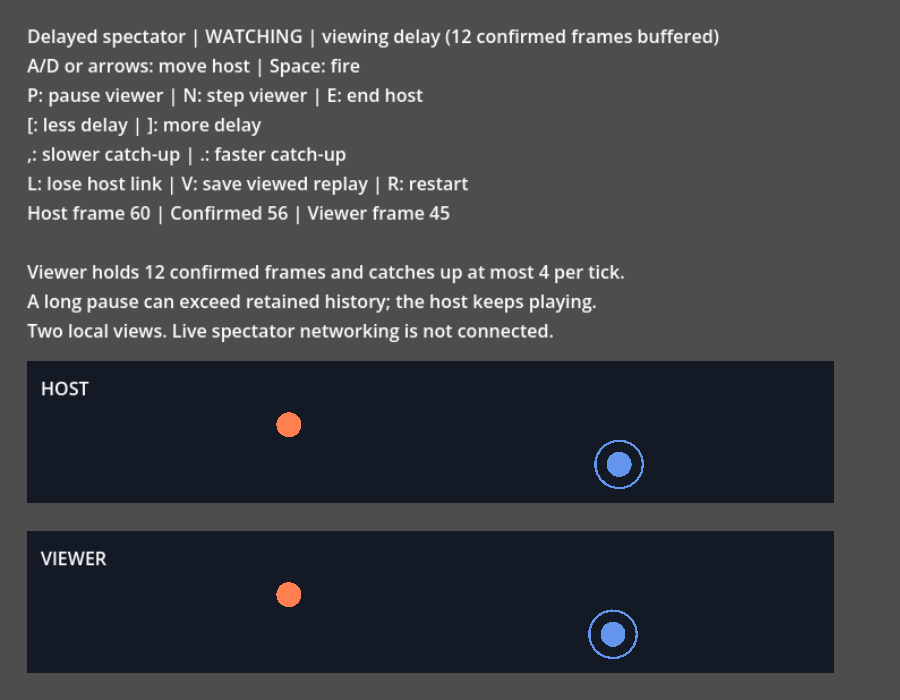
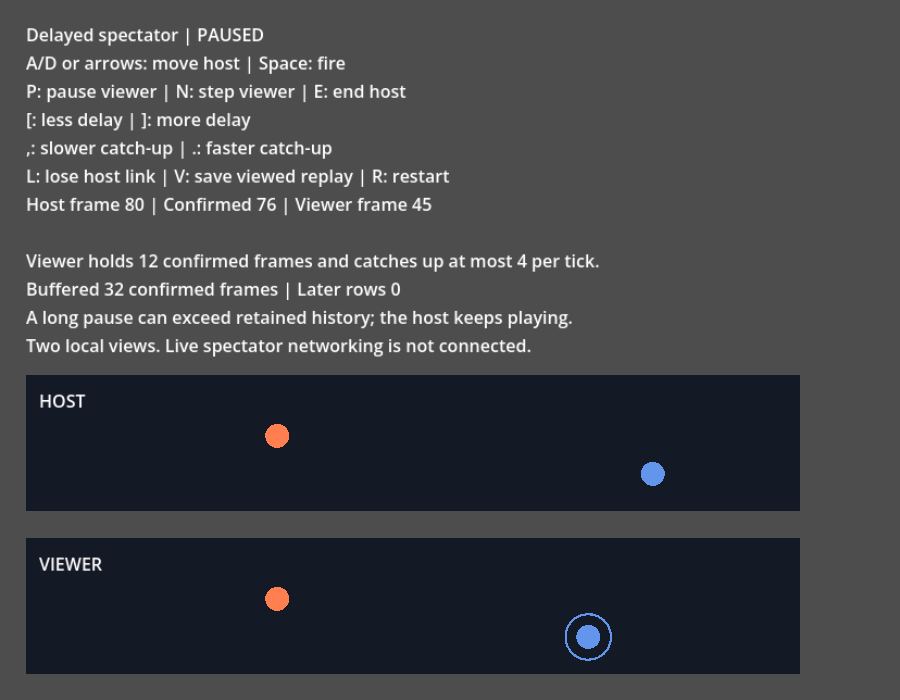
Verify full spectator replays and expose buffered input

diff --git a/scripts/oracle/replay_corruption.py b/scripts/oracle/replay_corruption.py
@@ -16,13 +16,14 @@ def validate(actual, healthy, fault, engine_metadata):
     """A single encoded-byte change must stop playback at its owning boundary."""
     actual = copy.deepcopy(actual)
     encoded = actual.pop('serialized_control', None)
-    if type(encoded) is not dict or encoded.keys() != {'before', 'after'}:
+    fields = {'before', 'after', 'statuses'} if fault == 'status' else {'before', 'after'}
+    if type(encoded) is not dict or encoded.keys() != fields:
         raise ValueError('serialized.control: missing byte evidence')
     try:
         before, after = (bytes.fromhex(encoded[key]) for key in ('before', 'after'))
     except (ValueError, TypeError) as error:
         raise ValueError('serialized.control: invalid byte evidence') from error
-    if fault not in ('input', 'checksum'):
+    if fault not in ('input', 'checksum', 'status'):
         raise ValueError('serialized.control: unknown fault')
     header = b'FRRP' + struct.pack('<HBIIIHBB', 5, 2, 4, 257, 0, 0, 4, 0) + b'\0' * 4
     metadata = (engine_metadata, '0.1.0', 'fortress-rollback ' + REVISION, '', '')
@@ -36,10 +37,14 @@ def validate(actual, healthy, fault, engine_metadata):
         checksum = bytes.fromhex(peer['checksums'][frame])
         original += row + b'\1\1\1' + checksum + hashlib.sha256(row + b'\1\1').digest()[:16]
     compare(before, bytes(original), 'serialized.control.original_file')
-    target = len(header) + FRAME * 43 + (11 if fault == 'checksum' else 0)
+    target = len(header) + FRAME * 43 + {'input': 0, 'checksum': 11, 'status': 8}[fault]
     changed = bytearray(before)
-    changed[target] ^= 1
+    changed[target] ^= 2 if fault == 'status' else 1
     compare(after, bytes(changed), 'serialized.control.exact_mutation')
+    if fault == 'status':
+        statuses = [[1, 1] for _ in range(257)]
+        statuses[FRAME][0] = 3
+        compare(encoded['statuses'], statuses, 'serialized.control.decoded_statuses')
     wanted = copy.deepcopy(healthy)
     peer = wanted['peers'][1]
     playback = peer['playback']
@@ -49,8 +54,6 @@ def validate(actual, healthy, fault, engine_metadata):
         checksum = bytearray.fromhex(peer['checksums'][FRAME])
         checksum[0] ^= 1
         peer['checksums'][FRAME] = checksum.hex()
-    else:
-        raise ValueError('serialized.control: unknown fault')
     playback['records'] = [record for record in playback['records']
                            if record['frame'] < FRAME or (fault == 'checksum' and record['frame'] == FRAME and record['kind'] == 'save')]
     boundary = next(record['bytes'] for record in healthy['peers'][1]['playback']['records']
@@ -80,7 +83,7 @@ def observe(engine, root, output, execute, healthy):
             raise ValueError('invalid serialized control engine observation')
         info = json.loads(lines[0])
         engine_metadata = '%d.%d.%d.%s %s' % (info['major'], info['minor'], info['patch'], info['status'], info['hash'])
-        for fault in ('input', 'checksum'):
+        for fault in ('input', 'checksum', 'status'):
             injection = '''\t\tvar encoded: PackedByteArray = recording.to_bytes()
 \t\tif peer == 1:
 \t\t\tvar before: PackedByteArray = encoded.duplicate()
@@ -88,12 +91,28 @@ def observe(engine, root, output, execute, healthy):
 \t\t\tfor field: int in 5:
 \t\t\t\tcursor += 1 + encoded[cursor]
 \t\t\tcursor += 129 * 43 + %d
-\t\t\tencoded[cursor] ^= 1
+\t\t\tencoded[cursor] ^= %d
 \t\t\tserialized_control = {"before": before.hex_encode(), "after": encoded.hex_encode()}
-\t\tif decoded.decode(encoded) != Replay.DecodeCode.OK or decoded.to_bytes() != encoded:''' % (11 if fault == 'checksum' else 0)
+\t\tif decoded.decode(encoded) != Replay.DecodeCode.OK or decoded.to_bytes() != encoded:''' % (
+                {'input': 0, 'checksum': 11, 'status': 8}[fault], 2 if fault == 'status' else 1)
             altered = original.replace('var deliveries: Array[Dictionary] = []',
                                        'var deliveries: Array[Dictionary] = []\n\tvar serialized_control: Dictionary = {}')
             altered = altered.replace(needle, injection).replace(result_needle, '\tresult.serialized_control = serialized_control\n' + result_needle)
+            if fault == 'status':
+                status_guard = '\t\t\t\tif input.status != Queue.Status.CONFIRMED:'
+                if original.count(status_guard) != 1:
+                    raise ValueError('serialized control status boundary missing or ambiguous')
+                altered = altered.replace('\t\tvar rows: Array[Array] = []',
+                                          '\t\tvar decoded_statuses: Array[Array] = []\n\t\tvar rows: Array[Array] = []')
+                altered = altered.replace('\t\t\tvar row: Array[int] = []',
+                                          '\t\t\tvar row_statuses: Array[int] = []\n\t\t\tvar row: Array[int] = []')
+                altered = altered.replace(status_guard,
+                                          '\t\t\t\trow_statuses.append(input.status)\n' + status_guard.removesuffix(':') +
+                                          ' and not (peer == 1 and frame == 129 and slot == 0 and input.status == Queue.Status.DISCONNECTED):')
+                altered = altered.replace('\t\t\trows.append(row)', '\t\t\tdecoded_statuses.append(row_statuses)\n\t\t\trows.append(row)')
+                altered = altered.replace('\t\tvar playback: Dictionary = _play(decoded, 0xffffffff, true, false)',
+                                          '\t\tif peer == 1:\n\t\t\tserialized_control.statuses = decoded_statuses\n' +
+                                          '\t\tvar playback: Dictionary = _play(decoded, 0xffffffff, true, false)')
             script = Path(directory) / (fault + '.gd')
             script.write_text(altered)
             command = [str(engine), '--headless', '--path', str(root), '--script', 'res://' + script.relative_to(root).as_posix(),
@@ -107,7 +126,7 @@ def observe(engine, root, output, execute, healthy):
             try:
                 compare({key: value for key, value in actual.items() if key != 'serialized_control'}, healthy, 'asymmetric.godot')
             except ValueError as error:
-                field = 'frames[129][0]' if fault == 'input' else 'checksums[129]'
+                field = {'input': 'frames[129][0]', 'checksum': 'checksums[129]', 'status': 'playback.bytes'}[fault]
                 if not str(error).startswith(f'asymmetric.godot.peers[1].{field}:'):
                     raise ValueError(f'wrong serialized {fault} rejection: {error}') from error
             else:

diff --git a/scripts/oracle/test_replay_remote.py b/scripts/oracle/test_replay_remote.py
@@ -157,16 +157,20 @@ class SerializedRemoteRecordingTest(unittest.TestCase):
             header += bytes([len(text)]) + text.encode('ascii')
         before = bytes(header) + before[cursor:]
         cursor = len(header)
-        for fault in ('input', 'checksum'):
+        for fault in ('input', 'checksum', 'status'):
             changed = copy.deepcopy(healthy)
-            offset = cursor + 129 * 43 + (11 if fault == 'checksum' else 0)
+            offset = cursor + 129 * 43 + {'input': 0, 'checksum': 11, 'status': 8}[fault]
             after = bytearray(before)
-            after[offset] ^= 1
+            after[offset] ^= 2 if fault == 'status' else 1
             changed['serialized_control'] = dict(before=before.hex(), after=after.hex())
+            if fault == 'status':
+                statuses = [[1, 1] for _ in range(257)]
+                statuses[129][0] = 3
+                changed['serialized_control']['statuses'] = statuses
             target = changed['peers'][1]
             if fault == 'input':
                 target['frames'][129][0] ^= 1
-            else:
+            elif fault == 'checksum':
                 checksum = bytearray.fromhex(target['checksums'][129])
                 checksum[0] ^= 1
                 target['checksums'][129] = checksum.hex()
@@ -178,7 +182,9 @@ class SerializedRemoteRecordingTest(unittest.TestCase):
             replay_corruption.validate(changed, healthy, fault, 'oracle')
             for forgery, diagnostic in [('no-mutation', 'exact_mutation'), ('extra-mutation', 'exact_mutation'),
                                         ('original-row', 'original'), ('playback-continues', 'observed'),
-                                        ('wrong-frame', 'observed'), ('missing-bytes', 'missing byte evidence')] + [
+                                        ('wrong-frame', 'observed'), ('missing-bytes', 'missing byte evidence')] + (
+                                            [('hidden-status', 'decoded_statuses'), ('extra-status', 'decoded_statuses')]
+                                            if fault == 'status' else []) + [
                                             ('header-%d' % index, 'original_file') for index in range(15, cursor)]:
                 bad = copy.deepcopy(changed)
                 if forgery == 'no-mutation':
@@ -195,6 +201,10 @@ class SerializedRemoteRecordingTest(unittest.TestCase):
                     bad['peers'][1]['playback'] = copy.deepcopy(healthy['peers'][1]['playback'])
                 elif forgery == 'wrong-frame':
                     bad['peers'][1]['playback']['failure_frame'] = 130
+                elif forgery == 'hidden-status':
+                    bad['serialized_control']['statuses'][129][0] = 1
+                elif forgery == 'extra-status':
+                    bad['serialized_control']['statuses'][130][0] = 3
                 elif forgery.startswith('header-'):
                     index = int(forgery.removeprefix('header-'))
                     for key in ('before', 'after'):

diff --git a/.llm/retrospectives/2026-10-30-spectator-replay-workflow.md b/.llm/retrospectives/2026-10-30-spectator-replay-workflow.md
@@ -17,6 +17,19 @@ New capabilities and an evidence-validator repair require this retrospective.
 | A complete ownership-probe project does not prove the separately installed online example includes a new preload dependency. | Both online CI exports fail on missing `examples/integration/game.gd`; the new viewer adds that dependency. | Add the dependency to installation and original-source fingerprint inventories, and verify the actual clean installed export. Guard partial replay startup and bound the checker before requiring its unique success marker. Existing staging and process-bound guidance already requires these boundaries. |
 | The driver's existing lifecycle tests already cover the suspected gaps. | The #40 audit found no reproducible contract violation in configuration, callback returns, recovery, staged samples or shared notifications. | Leave production code unchanged for that audit and spend implementation effort on a demonstrated user workflow gap. |
 
+A post-green submitted review contained an outside-diff finding despite empty inline
+threads and approval: the new spectator producer/viewer round trip omitted its
+advertised 36,000-frame maximum. Extend that actual producer case and service seeking
+through its normal per-tick budget. The existing maximum-output and four-surface
+review rules already require these checks; no duplicate guidance is needed.
+
+The continuation also makes paused spectator backlog visible using existing owned
+observations, with actual gap/recovery controls and a rendered screenshot. Encoded
+post-wrap status corruption now retains its original digest, exposes the complete
+decoded status matrix and fails before the affected SAVE or ADVANCE. Existing
+original-byte binding and finalized-status guidance covers this case; no new rule
+or stale guidance was identified.
+
 ## Prune ledger
 
 Updated the existing [infrastructure evidence](../skills/testing/references/infrastructure.md)
@@ -37,8 +50,8 @@ import reviews are clean. The encoded-control review finding was reproduced by a
 separate evaluator, repaired, and re-reviewed without remaining findings.
 Both complete pinned-source replay gates pass with unchanged source/tool inventories;
 actual corruptions stop at canonical boundary 129 through the production player.
-Native, exported ownership, harness and final delivery gates are recorded in the
-session log and linked issue updates. The source and platform scope remains the
+The session log and linked issue updates distinguish completed native, exported
+ownership and harness checks from pending final delivery gates. The source and platform scope remains the
 original issues' scope; this work makes no complete-parity or browser-release claim.
 
 ## Outcome

diff --git a/PLAN.md b/PLAN.md
@@ -499,6 +499,7 @@ Completion notifications guard the shared session, so another driver or expert f
 Remote-input sessions can recover and finalize confirmed replay history without another local sample
 or forward frame. The local spectator example exposes bounded catch-up rate controls independently of viewing delay.
 Its identified saved recordings open in the shared replay viewer with their own game callbacks and control labels.
+The actual 36,000-frame spectator export round-trips through bounded seeking and complete playback against independently simulated original inputs.
 The spectator example uses that shared operation to settle its exact final host
 boundary before sending END; paused viewers can resume through the full clean tail.
 Authenticated retries remain idempotent through that buffered tail; input closure alone does not terminate playback.
@@ -508,7 +509,7 @@ The host publisher retains one exact refused packet, advances only on transport 
 and fences host replacement while keeping liveness separate from row pressure.
 Stream delivery and expiry remain bound to the configured playback lifetime; direct viewer replacement requires fresh stream setup.
 Bounded typed spectator playback events distinguish contiguous host receipt, clean input closure and actual playback termination.
-Owned playback observations distinguish contiguous playable input from retained rows beyond a gap; the example names the first missing frame and later-row count.
+Owned playback observations distinguish contiguous playable input from retained rows beyond a gap; the example names the first missing frame and shows both buffer counts while paused.
 These local events do not establish host authentication or a network handshake.
 `is_complete()` identifies serviced clean playback completion; cancellation and failures preserve their first cause without claiming completion.
 The spectator relay uses that completion authority even when cancellation occurs exactly at an authenticated final boundary or inside acceptance delivery.

diff --git a/docs/oracle-replay.md b/docs/oracle-replay.md
@@ -351,10 +351,12 @@ processes. This advances #256 without qualifying source recovery-only recording,
 coordinated drop, browser transports or the complete #45 release gate.
 
 
-The asymmetric gate also copies the actual Godot observer twice and changes one
+The asymmetric gate also copies the actual Godot observer three times and changes one
 serialized byte at frame 129 before production decoding. An altered input keeps its
-original digest and stops playback before that frame's SAVE or ADVANCE; an altered
-recorded checksum reaches SAVE and then stops before ADVANCE. Both must report DESYNC
+original digest and stops playback before that frame's SAVE or ADVANCE. Changing one
+finalized status from confirmed to disconnected also retains the original digest;
+the complete decoded status matrix must show exactly that change, and playback stops
+before SAVE or ADVANCE. An altered recorded checksum reaches SAVE and then stops before ADVANCE. All three report DESYNC
 at boundary 129, retaining the exact original canonical state. The validator checks
 the complete original file, including configuration, neutral input, every metadata field,
 rows, statuses, checksums and input digests. Engine metadata comes from an independent

diff --git a/docs/spectators.md b/docs/spectators.md
@@ -29,6 +29,9 @@ Reducing delay catches up within that work limit; raising delay waits for
 more confirmed input without rewinding. The label shows the selected delay.
 These controls never advance or sample the host. Restart restores twelve frames of delay
 and the four-frame catch-up limit.
+The label also counts contiguous buffered confirmed frames and later rows beyond gaps,
+including while paused. Later rows become buffered only after their missing earlier inputs arrive;
+they cannot be played yet. These counts show the current backlog independently of the selected delay.
 The host continues playing during inspection. E stops the host at its current
 frame, waits for outstanding actual inputs, repairs its final state and sends a clean end.
 A paused viewer can resume or press N through the final tail to display that exact final state.

diff --git a/CHANGELOG.md b/CHANGELOG.md
@@ -4,6 +4,8 @@
 
 ### Added
 
+- Add spectator backlog feedback during pause and playback. Show contiguous buffered input separately from later rows waiting beyond gaps.
+
 - Add saved spectator-example playback in the replay viewer, including checksum validation, Fire input inspection and backward navigation. New exports identify their game; older unnamed exports remain refused.
 
 - Add comma/period spectator catch-up controls. Adjust the bounded frames-per-tick limit while preserving viewing delay and pause.
